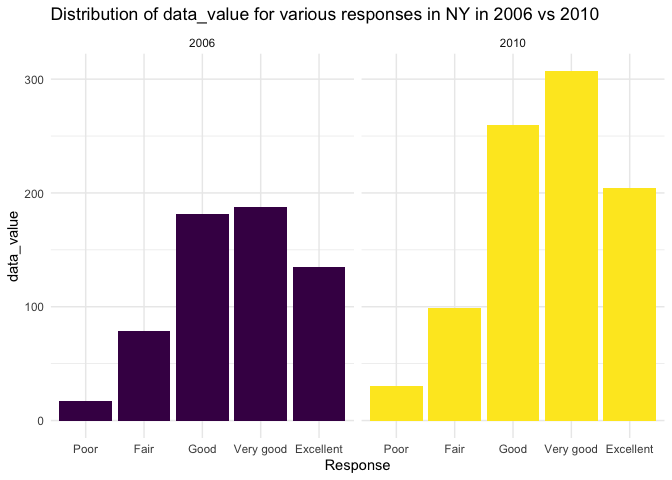
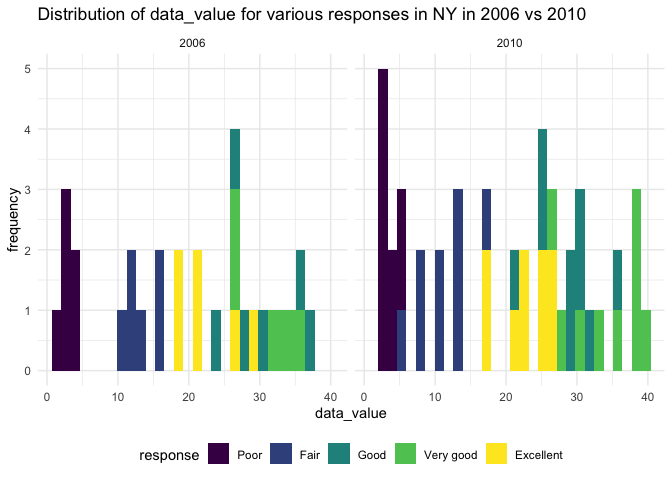
changed a plot, added descriptions

diff --git a/p8105_hw3_td2704.md b/p8105_hw3_td2704.md
@@ -95,9 +95,8 @@ aisle_info
     ## 10 bread                              112             23635
     ## # … with 124 more rows
 
-It seems to be that the top 5 aisles most ordered from are fresh
-vegetables, fresh fruits, packaged vegetables fruits, yogurt, packaged
-cheese.
+It seems that the top 5 aisles most ordered from are fresh vegetables,
+fresh fruits, packaged vegetables fruits, yogurt, packaged cheese.
 
 ### Make a plot that shows the number of items ordered in each aisle, limiting this to aisles with more than 10000 items ordered. Arrange aisles sensibly, and organize your plot so others can read it.
 
@@ -113,6 +112,10 @@ aisle_info %>%
 ```
 
 ![](p8105_hw3_td2704_files/figure-gfm/unnamed-chunk-6-1.png)<!-- -->
+
+As we can see, only 4 aisles have more than 50000 orders: fresh
+vegetables, fresh fruits, packaged vegetables fruits, and yogurt. There
+are 39 aisles total that have more than 10000 items ordered.
 
 ### Make a table showing the three most popular items in each of the aisles “baking ingredients”, “dog food care”, and “packaged vegetables fruits”. Include the number of times each item is ordered in your table.
 
@@ -141,6 +144,13 @@ instacart %>%
 | dog food care              |        40 | Organix Chicken & Brown Rice Recipe           |       23329 |                  28 |
 | dog food care              |        40 | Small Dog Biscuits                            |       17471 |                  26 |
 
+The top 3 items ordered in each of these categories are shown above.
+Among these, the number of items ordered from the packaged vegetables
+fruits aisle are much higher than the other two aisles, baking
+ingredients and dog food care. Items ordered in dog food care aisle are
+much lower in quantity ordered than the other aisles, but the 3 items
+showed are their most popular.
+
 ### Make a table showing the mean hour of the day at which Pink Lady Apples and Coffee Ice Cream are ordered on each day of the week; format this table for human readers (i.e. produce a 2 x 7 table).
 
 ``` r
@@ -162,6 +172,11 @@ instacart %>%
 |:-----------------|------------:|------:|------:|------:|------:|------:|------:|------:|
 | Coffee Ice Cream |       17334 | 13.77 | 14.32 | 15.38 | 15.32 | 15.22 | 12.26 | 13.83 |
 | Pink Lady Apples |        3798 | 13.44 | 11.36 | 11.70 | 14.25 | 11.55 | 12.78 | 11.94 |
+
+Overall, it seems that Coffee Ice Cream is ordered at a later hour on
+average than Pink Lady Apples are ordered, as the mean order hour of day
+on each day of the week is greater for Coffee Ice Cream every day except
+day 5, where the mean order hours are roughly the same.
 
 ## Problem 2
 
@@ -236,11 +251,14 @@ brfss
 2002: states observed at 7 or more locations
 
 ``` r
-brfss %>%
+state_location_count_2002_7plus = 
+  brfss %>%
   filter(year == 2002) %>%
   group_by(state) %>%
   summarize(location_count = n_distinct(location)) %>%
-  filter(location_count >= 7) %>%
+  filter(location_count >= 7)
+  
+state_location_count_2002_7plus  %>%
   knitr::kable()
 ```
 
@@ -253,14 +271,21 @@ brfss %>%
 | NJ    |               8 |
 | PA    |              10 |
 
+States observed at 7 or more locations in 2002 are CT, FL, MA, NC, NJ,
+PA. The state with the most observed locations in 2002 was PA at 10
+locations.
+
 2010: states observed at 7 or more locations
 
 ``` r
-brfss %>%
+state_location_count_2010_7plus = 
+  brfss %>%
   filter(year == 2010) %>%
   group_by(state) %>%
   summarize(location_count = n_distinct(location)) %>%
-  filter(location_count >= 7) %>%
+  filter(location_count >= 7) 
+
+state_location_count_2010_7plus %>%
   knitr::kable()
 ```
 
@@ -280,6 +305,10 @@ brfss %>%
 | SC    |               7 |
 | TX    |              16 |
 | WA    |              10 |
+
+States observed at 7 or more locations in 2010 are CA, CO, FL, MA, MD,
+NC, NE, NJ, NY, OH, PA, SC, TX, WA. The state with the most observed
+locations in 2010 was FL at 41 locations.
 
 ### Construct a dataset that is limited to Excellent responses, and contains, year, state, and a variable that averages the data\_value across locations within a state.
 
@@ -329,21 +358,66 @@ data_value_overyears_df %>%
 
 <img src="p8105_hw3_td2704_files/figure-gfm/unnamed-chunk-15-1.png" width="90%" />
 
+Above, we have lines for each state representing mean data value over
+the years from 2002 to 2010. With all the states on here, it makes it
+slightly difficult to observe trends. If I were to make a comment, it
+seems like the overall mean\_data\_value does flow downward for many
+states, like from 2002 to 2004, as the range of values is smaller at
+2004 than it is at 2002, and then the values slightly trend upwards
+after that. Other than 2 states at some years, the overall
+mean\_data\_values over this period seem to range between 15 and 30.
+
 ### Make a two-panel plot showing, for the years 2006, and 2010, distribution of data\_value for responses (“Poor” to “Excellent”) among locations in NY State
+
+``` r
+# brfss %>%
+#   filter(state == "NY") %>%
+#   filter(year == 2006 | year == 2010) %>%
+#   ggplot(aes(x=response,y=data_value,fill=year)) + 
+#   geom_point() + 
+#   facet_grid(. ~ year) +
+#   ggtitle("Distribution of data_value for various responses in NY in 2006 vs 2010") +
+#   xlab("Response") + ylab("data_value") + 
+#   theme(legend.position = "none")
+
+brfss %>%
+  filter(state == "NY") %>%
+  filter(year == 2006 | year == 2010) %>%
+  ggplot(aes(x=data_value)) + 
+  geom_histogram(aes(fill=response)) + 
+  facet_grid(. ~ year) +
+  ggtitle("Distribution of data_value for various responses in NY in 2006 vs 2010") +
+  xlab("data_value") + ylab("frequency")
+```
+
+    ## `stat_bin()` using `bins = 30`. Pick better value with `binwidth`.
+
+![](p8105_hw3_td2704_files/figure-gfm/unnamed-chunk-16-1.png)<!-- --> A
+density plot may be easier to parse than the histogram above when
+looking at distribution of data\_value values.
 
 ``` r
 brfss %>%
   filter(state == "NY") %>%
   filter(year == 2006 | year == 2010) %>%
-  ggplot(aes(x=response,y=data_value,fill=year)) + 
-  geom_bar(stat='identity') + 
-  facet_grid(. ~ year) +
+  ggplot(aes(x=data_value,fill=response)) + 
+  geom_density(alpha = .4) + 
+  facet_grid(rows = vars(year)) +
   ggtitle("Distribution of data_value for various responses in NY in 2006 vs 2010") +
-  xlab("Response") + ylab("data_value") + 
-  theme(legend.position = "none")
+  xlab("data_value") + ylab("density")
 ```
 
-![](p8105_hw3_td2704_files/figure-gfm/unnamed-chunk-16-1.png)<!-- -->
+![](p8105_hw3_td2704_files/figure-gfm/unnamed-chunk-17-1.png)<!-- -->
+
+Here, we see different peaks for different responses. For the poor
+response, the data\_values are concentrated between values 0 to 5. For
+the fair response, data\_values concentrate around 10-15. Interestingly,
+for the excellent response, data\_values concentrate around the middle
+values, although values tend to be higher in 2010 than in 2006. Very
+good values tend to be higher in 2010 than 2006, while both tend to have
+the highest values compared to other responses in the 35 to 40 range.
+The good response seems to have no true peak of values in 2006, but a
+peak around 30 in 2010.
 
 ## Problem 3
 
@@ -523,7 +597,7 @@ accel_df %>%
   ggtitle("Activity count in a day grouped by day of the week (ordered Monday to Sunday)")
 ```
 
-<img src="p8105_hw3_td2704_files/figure-gfm/unnamed-chunk-21-1.png" width="90%" />
+<img src="p8105_hw3_td2704_files/figure-gfm/unnamed-chunk-22-1.png" width="90%" />
 
 It looks like there is more activity in the early and late afternoons on
 the weekend, on Sundays in particular, perhaps the user waking up late
